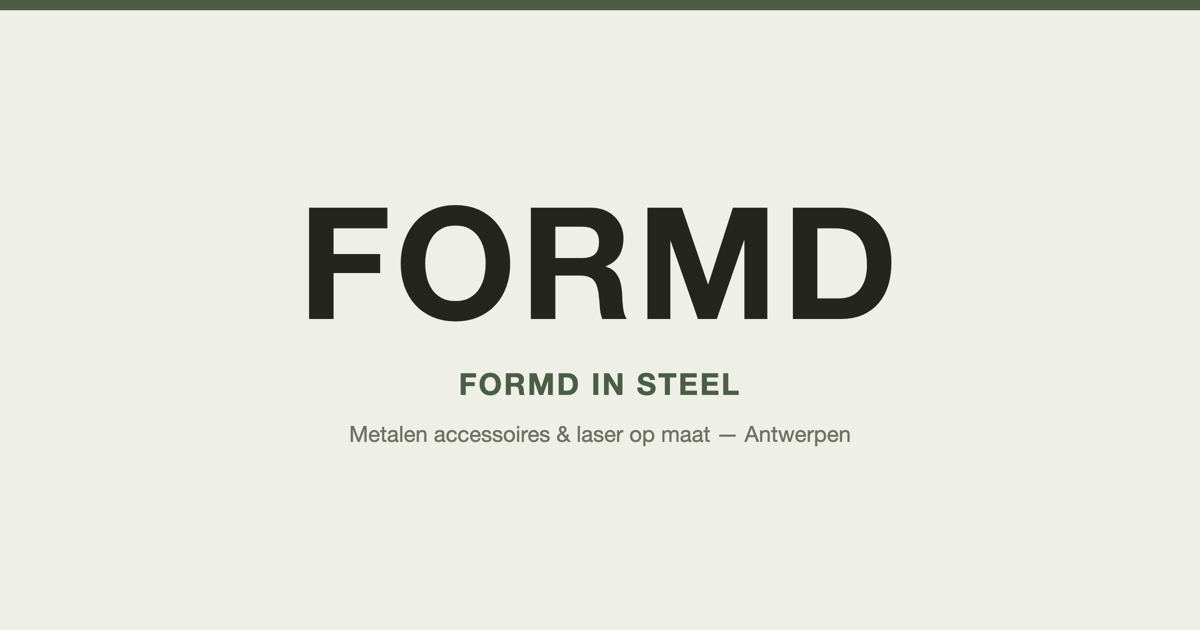
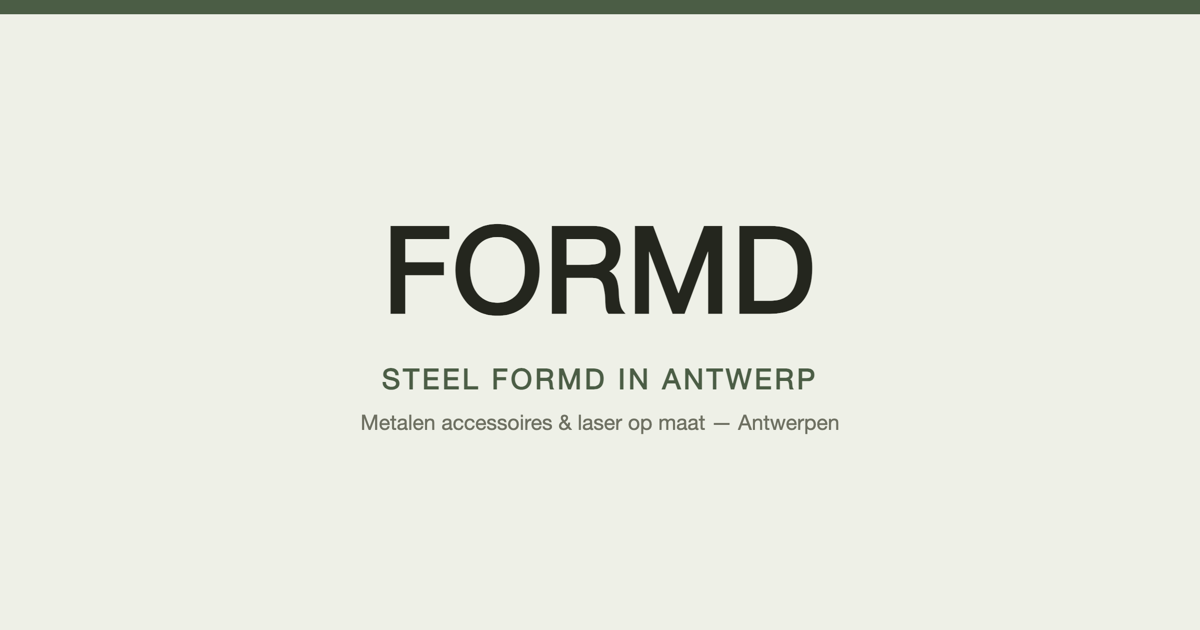
fix(seo): og-afbeelding tagline bijgewerkt naar "steel formd in antwerp"
De og:image (gebruikt in social link previews) had de oude tagline nog
hardcoded staan. Herrenderd met de nieuwe tekst, versie-param opgehoogd
naar v=4 om caches bij Facebook/WhatsApp te forceren te verversen.

diff --git a/app/layout.tsx b/app/layout.tsx
@@ -44,7 +44,7 @@ export const metadata: Metadata = {
     siteName: "FORMD",
     images: [
       {
-        url: "/og-image.png?v=3",
+        url: "/og-image.png?v=4",
         width: 1200,
         height: 630,
         alt: "FORMD - steel formd in antwerp",
@@ -55,7 +55,7 @@ export const metadata: Metadata = {
     card: "summary_large_image",
     title: "FORMD | Metalen Accessoires & Laser Op Maat — Antwerpen",
     description: "Koop strakke metalen woonaccessoires of upload je eigen DXF voor lasersnijden op maat. Staal, RVS, messing en aluminium.",
-    images: ["/og-image.png?v=3"],
+    images: ["/og-image.png?v=4"],
   },
   robots: {
     index: true,
